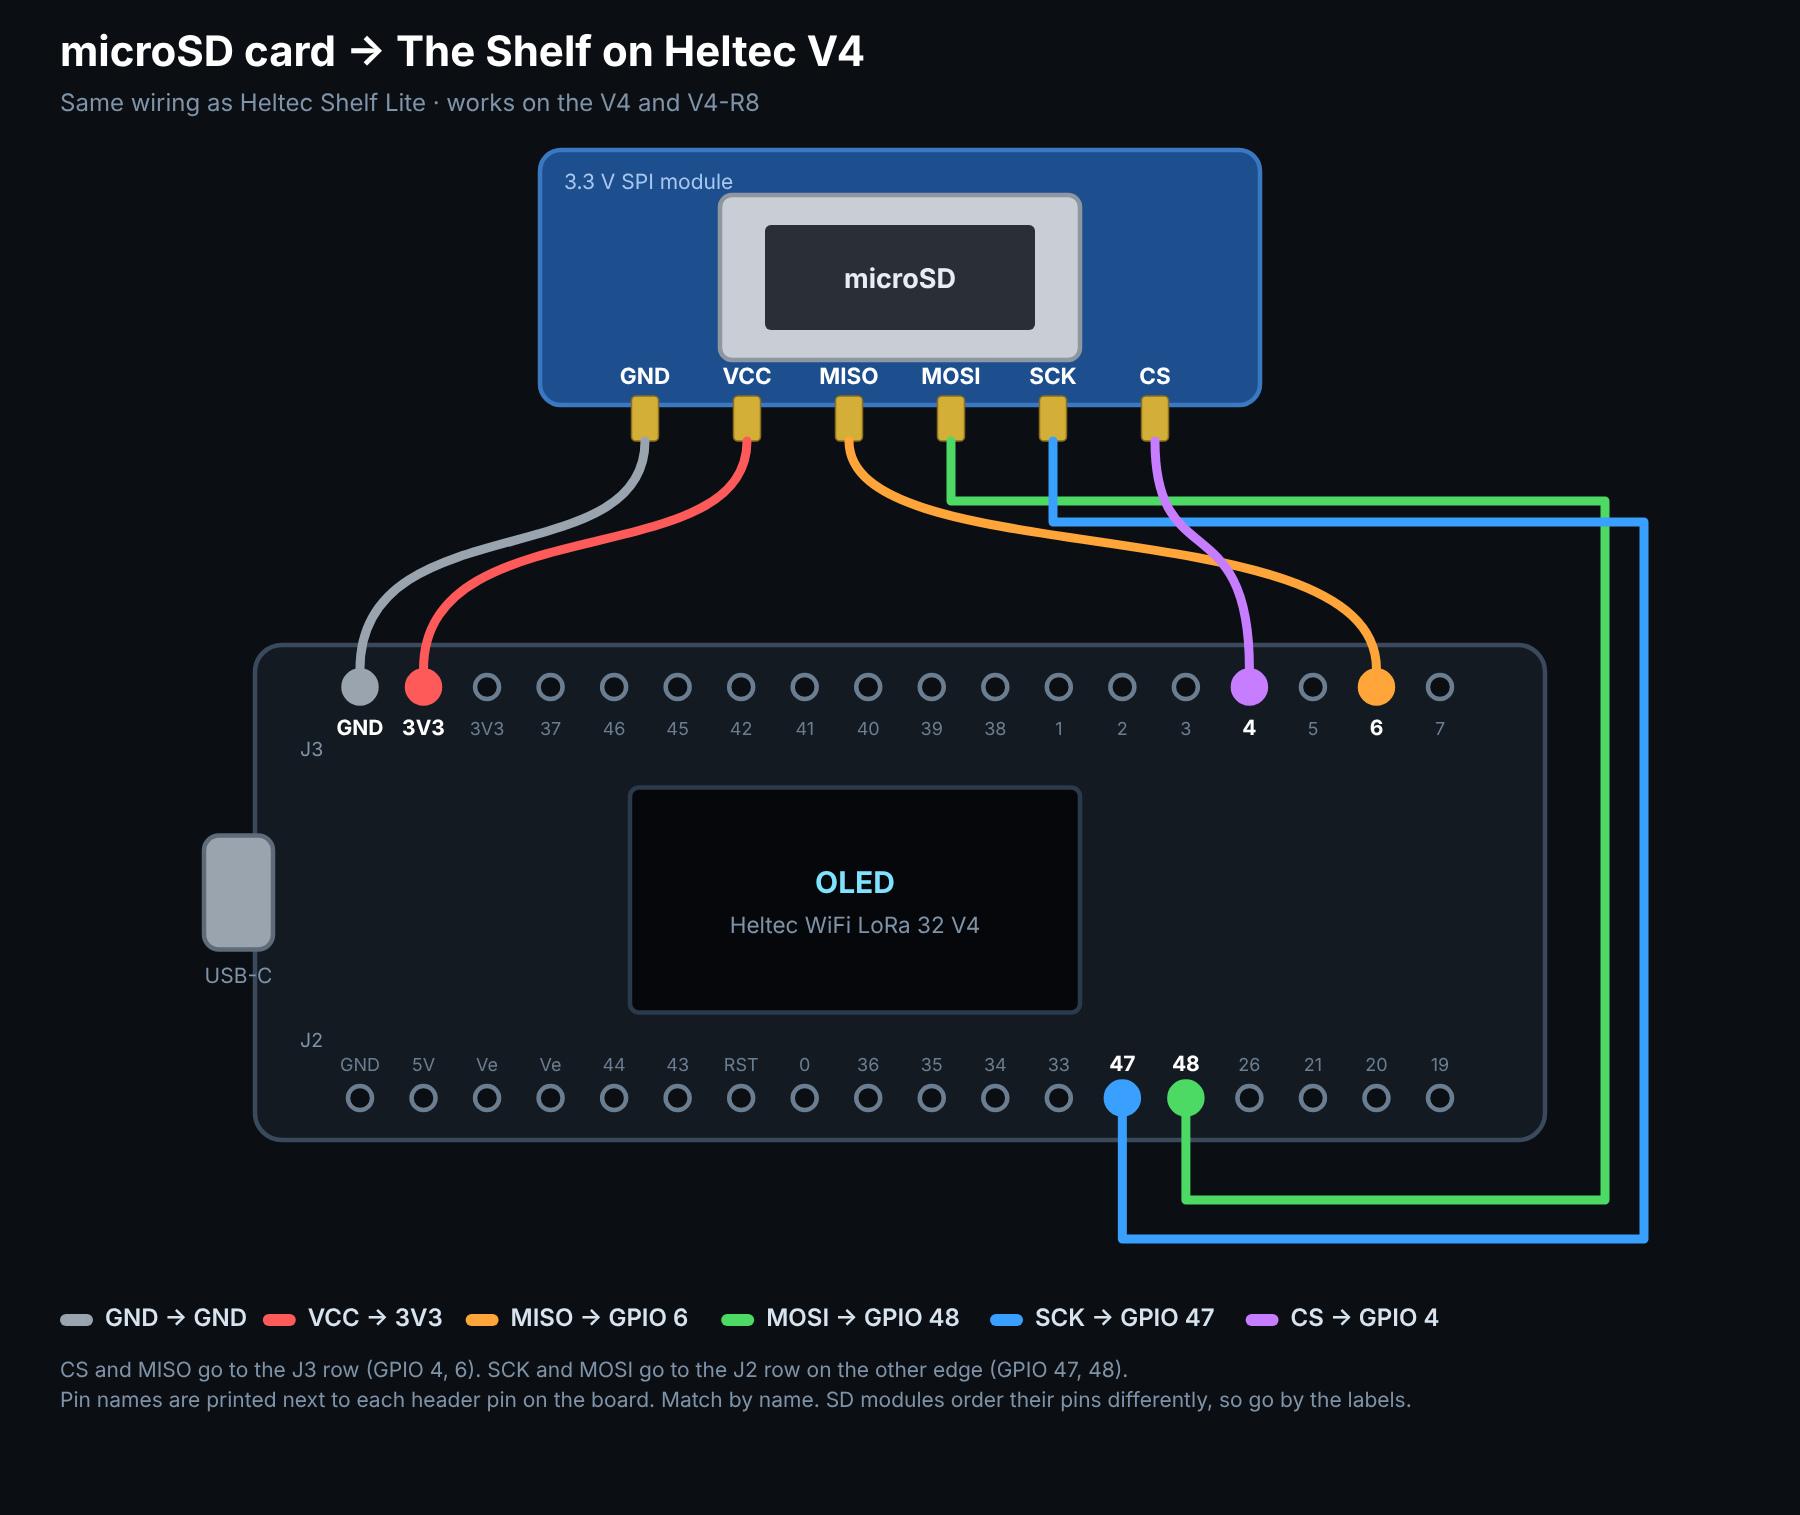
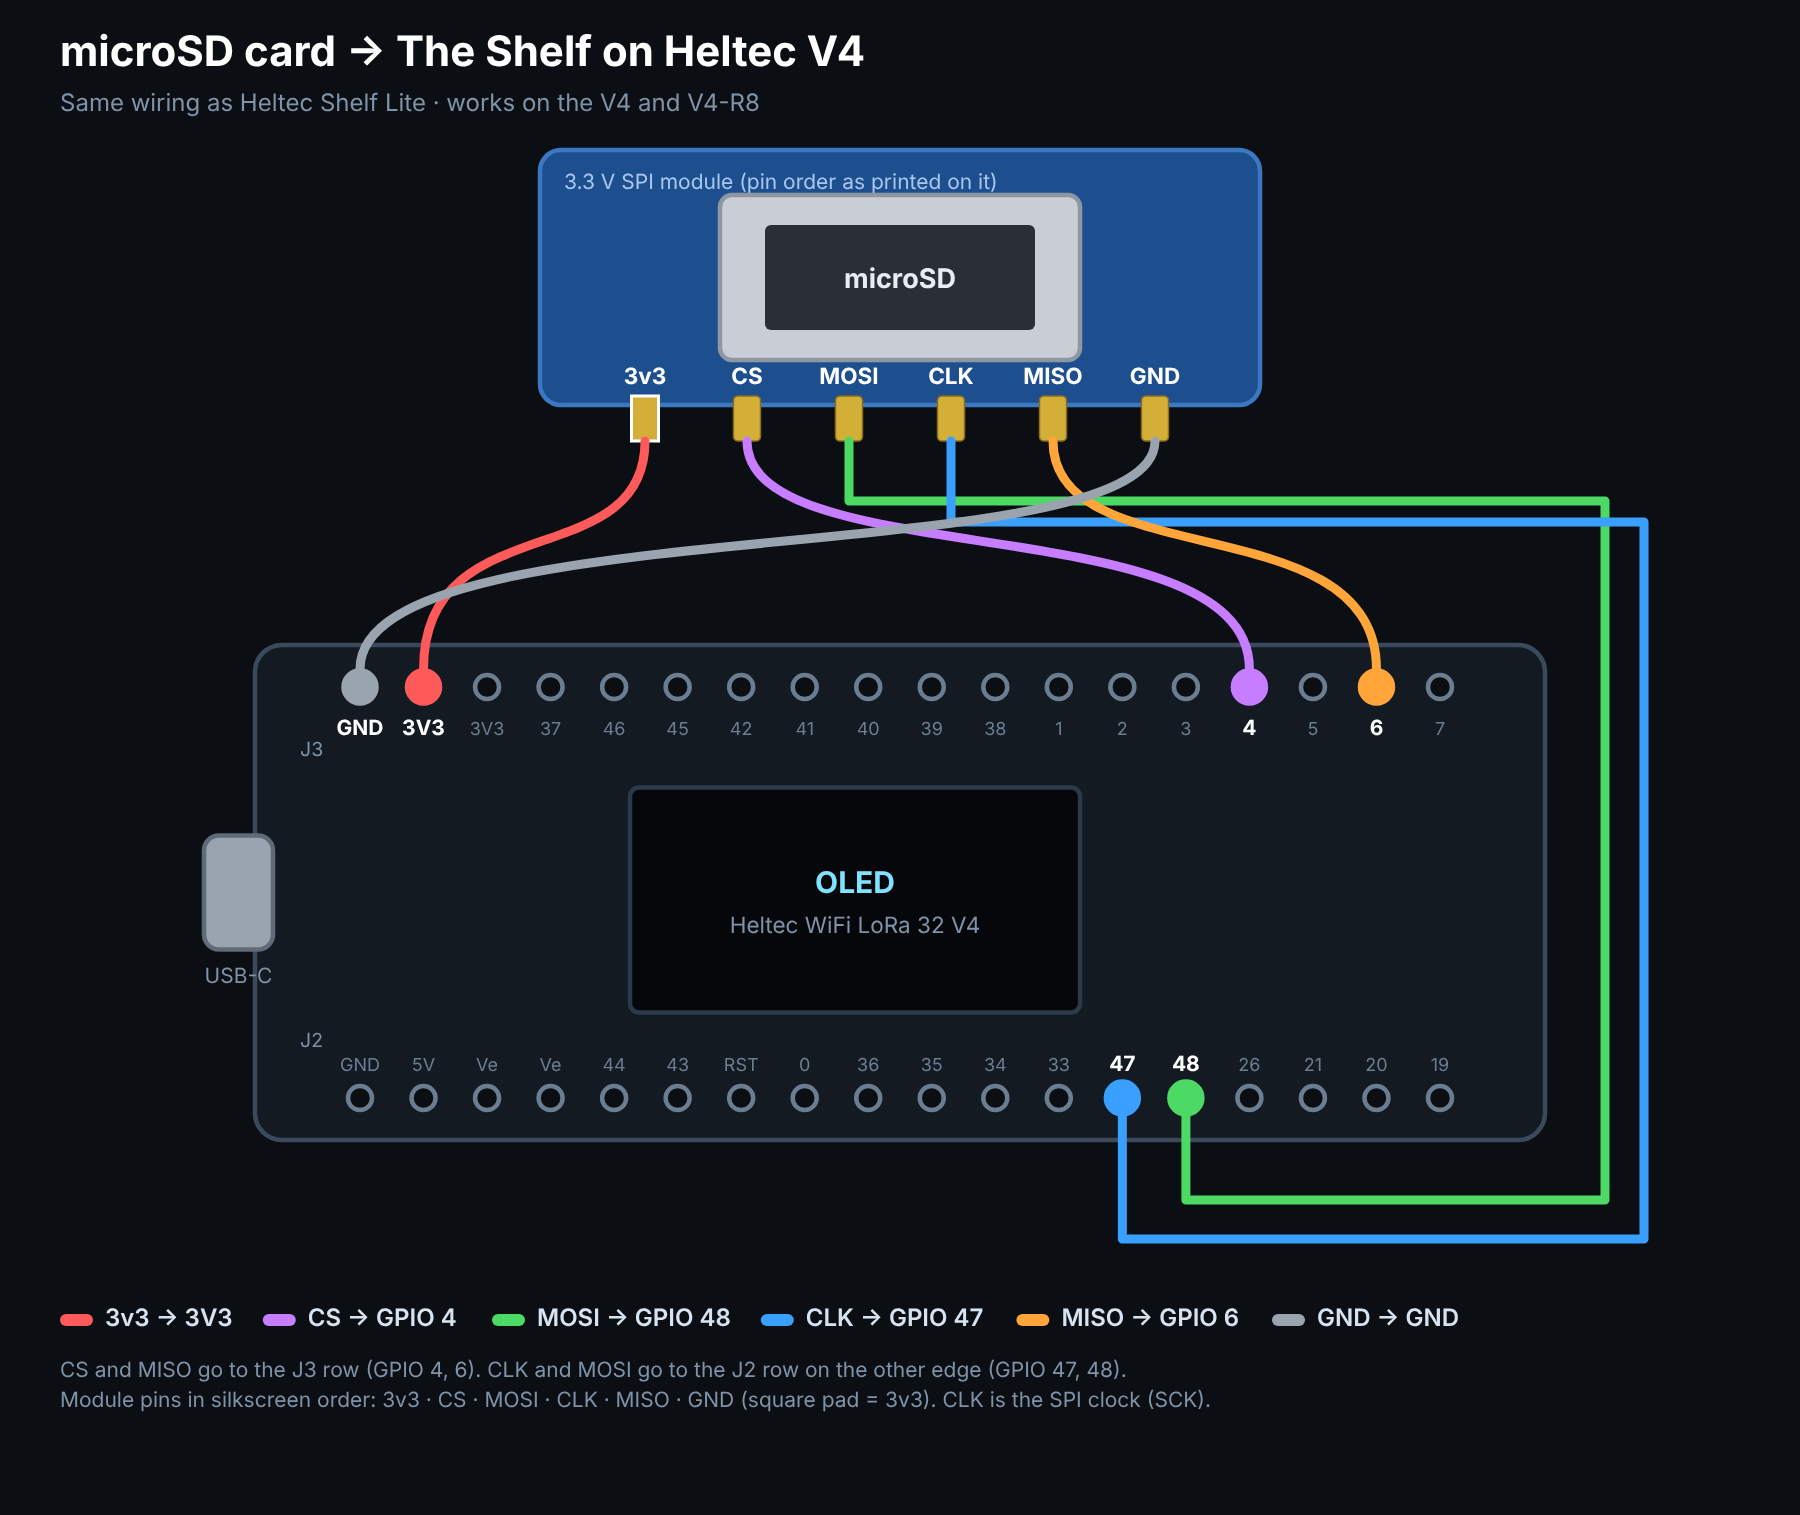
microSD wiring diagram: match the module's real silkscreen order (3v3, CS, MOSI, CLK, MISO, GND)
Claude-Session: https://claude.ai/code/session_013eymtVyeTra8gyofb6RSXp

diff --git a/docs/index.html b/docs/index.html
@@ -73,14 +73,14 @@ ul.ok{padding-left:20px;margin:0}ul.ok li{margin-bottom:6px}
 
   <h2>2. Wire a microSD card</h2>
   <p>Use a 3.3 V SPI microSD module (the same wiring as Heltec Shelf Lite). With no card fitted, The Shelf uses about 10 MB of the board's own flash.</p>
-  <img src="sd-wiring-shelf-v4.png" alt="microSD wiring diagram: GND to GND, VCC to 3V3, CS to GPIO 4, MISO to GPIO 6, SCK to GPIO 47, MOSI to GPIO 48" style="width:100%;max-width:900px;border-radius:10px;margin:8px 0 14px">
+  <img src="sd-wiring-shelf-v4.png" alt="microSD wiring diagram: GND to GND, VCC to 3V3, CS to GPIO 4, MISO to GPIO 6, CLK to GPIO 47, MOSI to GPIO 48" style="width:100%;max-width:900px;border-radius:10px;margin:8px 0 14px">
   <table>
     <tr><th>Module pin</th><th>Heltec V4 pin</th></tr>
     <tr><td>VCC</td><td><b>3V3</b></td></tr>
     <tr><td>GND</td><td>GND</td></tr>
     <tr><td>CS</td><td>GPIO 4</td></tr>
     <tr><td>MISO</td><td>GPIO 6</td></tr>
-    <tr><td>SCK</td><td>GPIO 47</td></tr>
+    <tr><td>CLK (SCK)</td><td>GPIO 47</td></tr>
     <tr><td>MOSI</td><td>GPIO 48</td></tr>
   </table>
   <p class="muted" style="margin-top:10px">GPIO 47 and 48 are on the other header row from 4 and 6. Go by the labels on the board. Use a FAT32 card; 32 GB cards come that way.</p>

diff --git a/tools/sd_wiring_diagram.py b/tools/sd_wiring_diagram.py
@@ -2,7 +2,7 @@
 J3=['GND','3V3','3V3','37','46','45','42','41','40','39','38','1','2','3','4','5','6','7']
 J2=['GND','5V','Ve','Ve','44','43','RST','0','36','35','34','33','47','48','26','21','20','19']
 # (module label, header, index, colour)
-SD=[('GND','J3',0,'#9aa4ae'),('VCC','J3',1,'#ff5a5a'),('MISO','J3',16,'#ffa53a'),('MOSI','J2',13,'#4cd964'),('SCK','J2',12,'#3aa0ff'),('CS','J3',14,'#c77dff')]
+SD=[('3v3','J3',1,'#ff5a5a'),('CS','J3',14,'#c77dff'),('MOSI','J2',13,'#4cd964'),('CLK','J2',12,'#3aa0ff'),('MISO','J3',16,'#ffa53a'),('GND','J3',0,'#9aa4ae')]
 W,H=1200,1010
 bx,by,bw,bh=170,430,860,330
 px0=bx+70; pstep=(bw-140)/17
@@ -14,13 +14,13 @@ o=[f'<svg xmlns="http://www.w3.org/2000/svg" width="{W}" height="{H}" viewBox="0
  '<text x="40" y="44" fill="#fff" font-size="28" font-weight="700">microSD card → The Shelf on Heltec V4</text>',
  '<text x="40" y="74" fill="#7f93a8" font-size="16">Same wiring as Heltec Shelf Lite · works on the V4 and V4-R8</text>']
 o.append(f'<rect x="{sx}" y="{sy+40}" width="{sw}" height="{sh}" rx="14" fill="#1d4f8f" stroke="#3a78c2" stroke-width="3"/>')
-o.append(f'<text x="{sx+16}" y="{sy+66}" fill="#a9c7ee" font-size="14">3.3 V SPI module</text>')
+o.append(f'<text x="{sx+16}" y="{sy+66}" fill="#a9c7ee" font-size="14">3.3 V SPI module (pin order as printed on it)</text>')
 o.append(f'<rect x="{sx+120}" y="{sy+70}" width="240" height="110" rx="8" fill="#c9ced6" stroke="#8e96a2" stroke-width="3"/>')
 o.append(f'<rect x="{sx+150}" y="{sy+90}" width="180" height="70" rx="4" fill="#2a2f36"/>')
 o.append(f'<text x="{sx+240}" y="{sy+132}" fill="#e6edf5" font-size="18" font-weight="700" text-anchor="middle">microSD</text>')
 for k,(lab,_,_,_) in enumerate(SD):
     x=sdx(k); y=sy+sh+40
-    o.append(f'<rect x="{x-9}" y="{y-6}" width="18" height="30" rx="3" fill="#d4af37" stroke="#8a6d1d"/>')
+    o.append(f'<rect x="{x-9}" y="{y-6}" width="18" height="30" rx="{0 if k==0 else 3}" fill="#d4af37" stroke="{"#fff" if k==0 else "#8a6d1d"}" stroke-width="{2 if k==0 else 1}"/>')
     o.append(f'<text x="{x}" y="{y-14}" fill="#fff" font-size="15" font-weight="700" text-anchor="middle">{lab}</text>')
 o.append(f'<rect x="{bx}" y="{by}" width="{bw}" height="{bh}" rx="18" fill="#141a22" stroke="#3a4a5c" stroke-width="3"/>')
 o.append(f'<rect x="{bx-34}" y="{by+bh/2-38}" width="46" height="76" rx="10" fill="#9aa4ae" stroke="#5f6b78" stroke-width="3"/>')
@@ -53,8 +53,8 @@ for lab,hdr,idx,col in SD:
     o.append(f'<rect x="{x}" y="{ly-14}" width="22" height="8" rx="4" fill="{col}"/>')
     o.append(f'<text x="{x+30}" y="{ly-6}" fill="#d7e3ee" font-size="16" font-weight="600">{t}</text>')
     x+=30+len(t)*8.8+26
-for n,l in enumerate(['CS and MISO go to the J3 row (GPIO 4, 6). SCK and MOSI go to the J2 row on the other edge (GPIO 47, 48).',
-                      'Pin names are printed next to each header pin on the board. Match by name. SD modules order their pins differently, so go by the labels.']):
+for n,l in enumerate(['CS and MISO go to the J3 row (GPIO 4, 6). CLK and MOSI go to the J2 row on the other edge (GPIO 47, 48).',
+                      'Module pins in silkscreen order: 3v3 · CS · MOSI · CLK · MISO · GND (square pad = 3v3). CLK is the SPI clock (SCK).']):
     o.append(f'<text x="40" y="{ly+28+n*20}" fill="#7f93a8" font-size="14">{l}</text>')
 o.append('</svg>')
 open('sd-wiring-shelf-v4.svg','w').write('\n'.join(o))

diff --git a/README.md b/README.md
@@ -37,7 +37,7 @@ The buttons for those computer-only features are hidden on the board, and the AI
 | GND | GND |
 | CS | GPIO 4 |
 | MISO | GPIO 6 |
-| SCK | GPIO 47 |
+| CLK (SCK) | GPIO 47 |
 | MOSI | GPIO 48 |
 
 With no card, The Shelf keeps files in about 10 MB of the board's own flash. The screen shows **SD** or **FLASH** in the corner.
